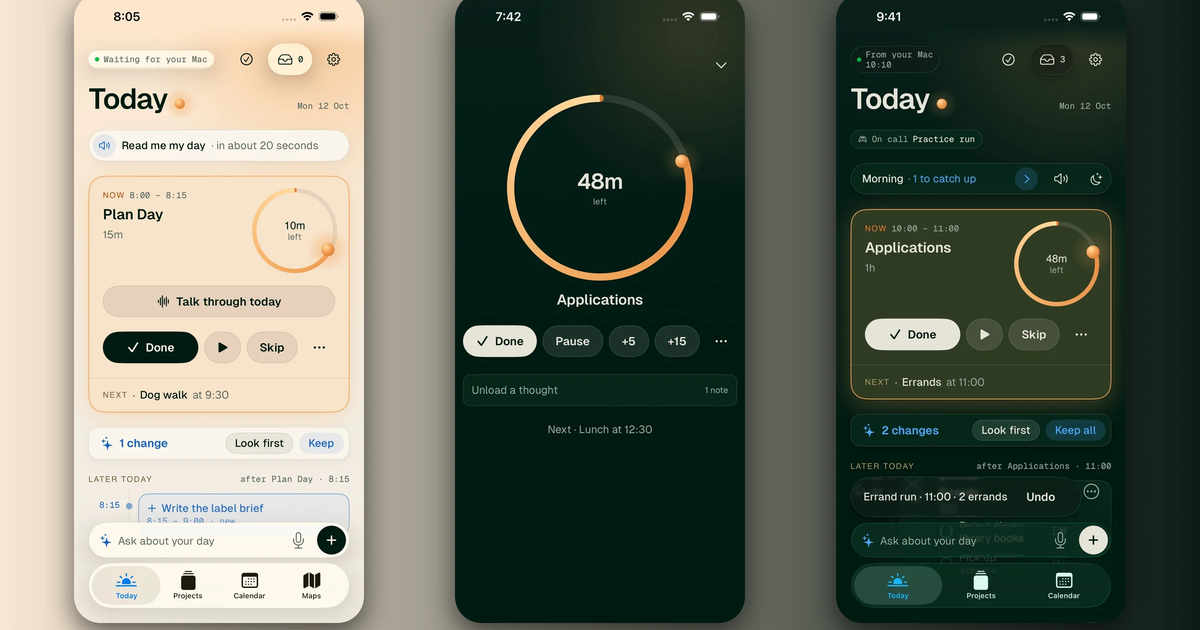
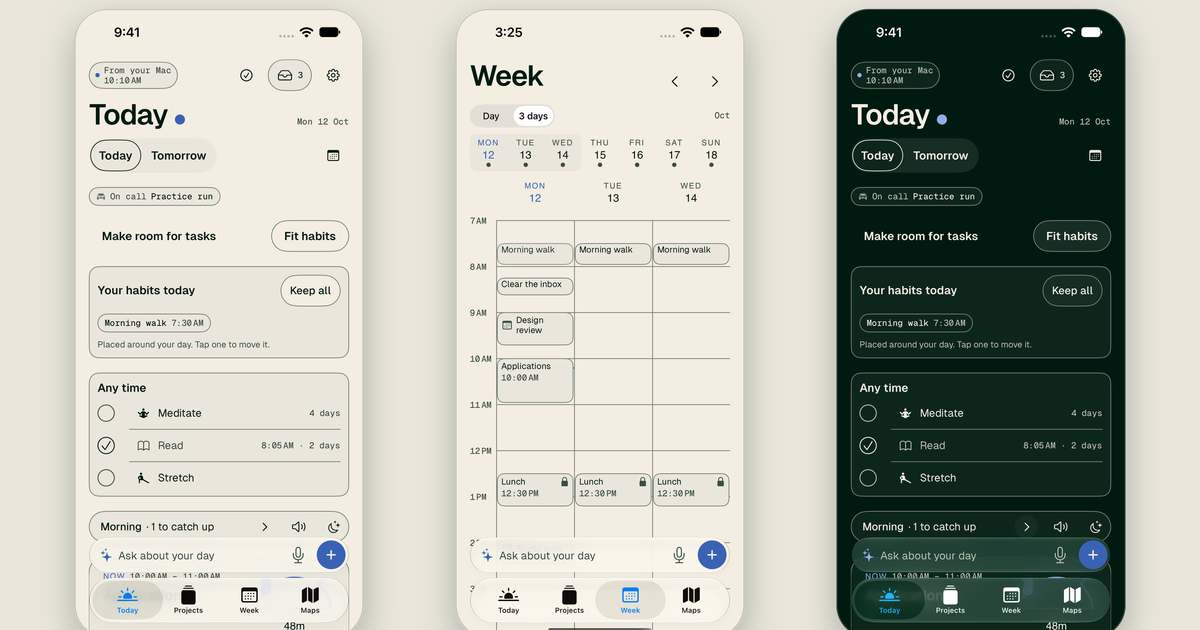
Present the planner case study as Crest
The app was renamed from Daybreak to Crest on 2026-10-29. The case study
is now titled Crest at /projects/crest/, with a 301 from /projects/daybreak.
The story stays true: the first version was Daybreak, the rebuild became Crest.

- New hero, look and og images composed from fictional fixture captures of
  the Crest look; the home card image is regenerated from the new hero.
- The home rail and work list use the Crest planner mark.
- catch-up, talk-through, focus and maps still show the October look; the
  page says so in one line.

diff --git a/src/data/project-stories.ts b/src/data/project-stories.ts
@@ -18,10 +18,10 @@ export const projectStories: Record<string, { problem: string; decision: string;
     outcome: "Two non-technical editors run the live CMS. AI proposes updates; an editor decides what gets published.",
     mark: "/images/project-marks/vegavengers.svg",
   },
-  daybreak: {
+  crest: {
     problem: "My planner made me commit the day, and let unfinished work pile up as guilt.",
     decision: "Nothing is late, it just needs a place. The planner and the AI only propose.",
     outcome: "Rebuilt from the ground up and in daily use on Mac and iPhone since October 15. I haven’t tested it with other people yet.",
-    mark: "/images/project-marks/daybreak.webp",
+    mark: "/images/project-marks/crest.svg",
   },
 };

diff --git a/CHANGELOG.md b/CHANGELOG.md
@@ -2,6 +2,14 @@
 
 All notable changes to this portfolio site should be documented here.
 
+## 2026-11-16 — The planner case study is Crest
+
+- The app was renamed Crest on 2026-10-29, so the case study is now titled Crest and lives at `/projects/crest/`; `/projects/daybreak` redirects there (301 in `public/_redirects`). The history stays true: the first version was Daybreak, and the rebuild Cello switched to on October 15 became Crest two weeks later. About names Crest too.
+- "A look that follows the sun" now covers all three looks (round one rejected for dashed lines, the warm October look, flat paper and ink with one blue since October 29) and the planner mark.
+- New `hero.webp`, `look.webp` and `og.png`, composed from the planner repo's fictional fixture captures of the Crest look (2026-10-29 and 2026-11-12); `/images/card/crest.webp` regenerated from the new hero. `catch-up`, `talk-through`, `focus` and `maps` still show the October look, and the page says so in one line; no Crest captures of those screens exist yet. The image folder keeps its `daybreak` name.
+- The home rail and work list use `project-marks/crest.svg`, the planner mark, drawn in one color like the other marks. Removed `project-marks/daybreak.webp`.
+- Validation: clean `pnpm build` (20 pages, 0 errors); the case study and home checked rendered at 1440 px.
+
 ## 2026-10-27 — Daybreak case study for the rebuilt app
 
 - Rewrote the Daybreak case study around the ground-up rebuild Cello switched to on October 15: why it was rebuilt, the paper-by-day / ink-by-night look (round one rejected for dashed lines), Catch up and check-ins, AI that only proposes (a four-step flow replaces the six-step operation model), Focus, errand runs with Maps, and outcome and limits. Kept in the conversational voice and short; `engagement` stays "My product · Since July 2026".
